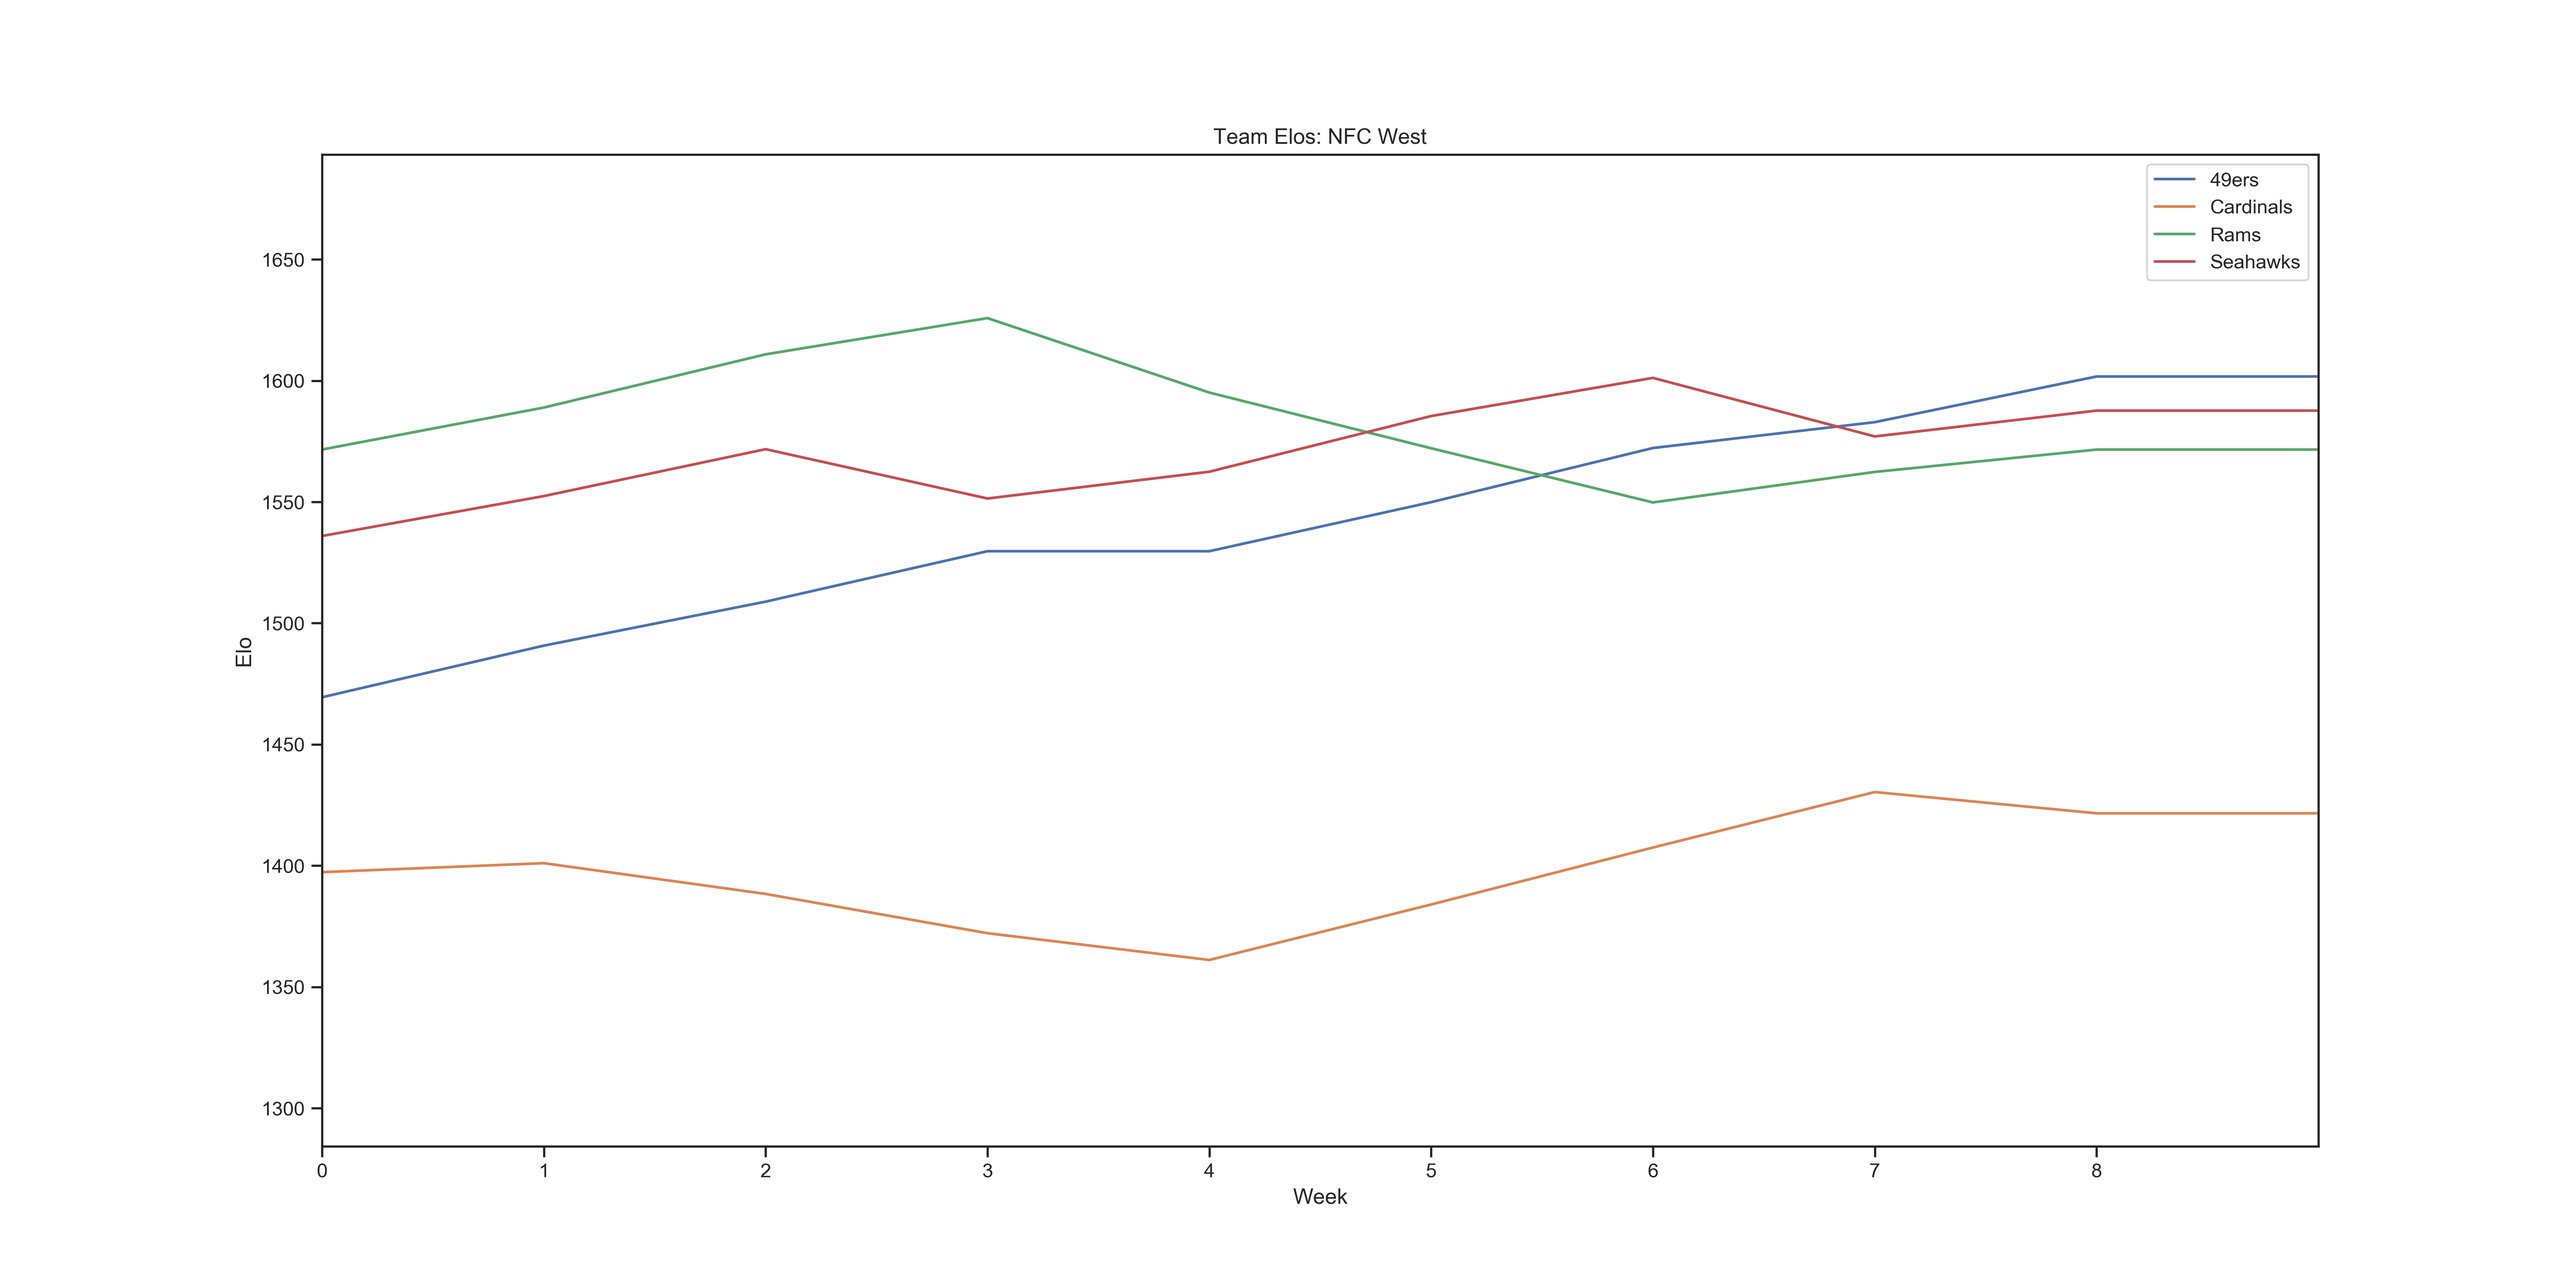
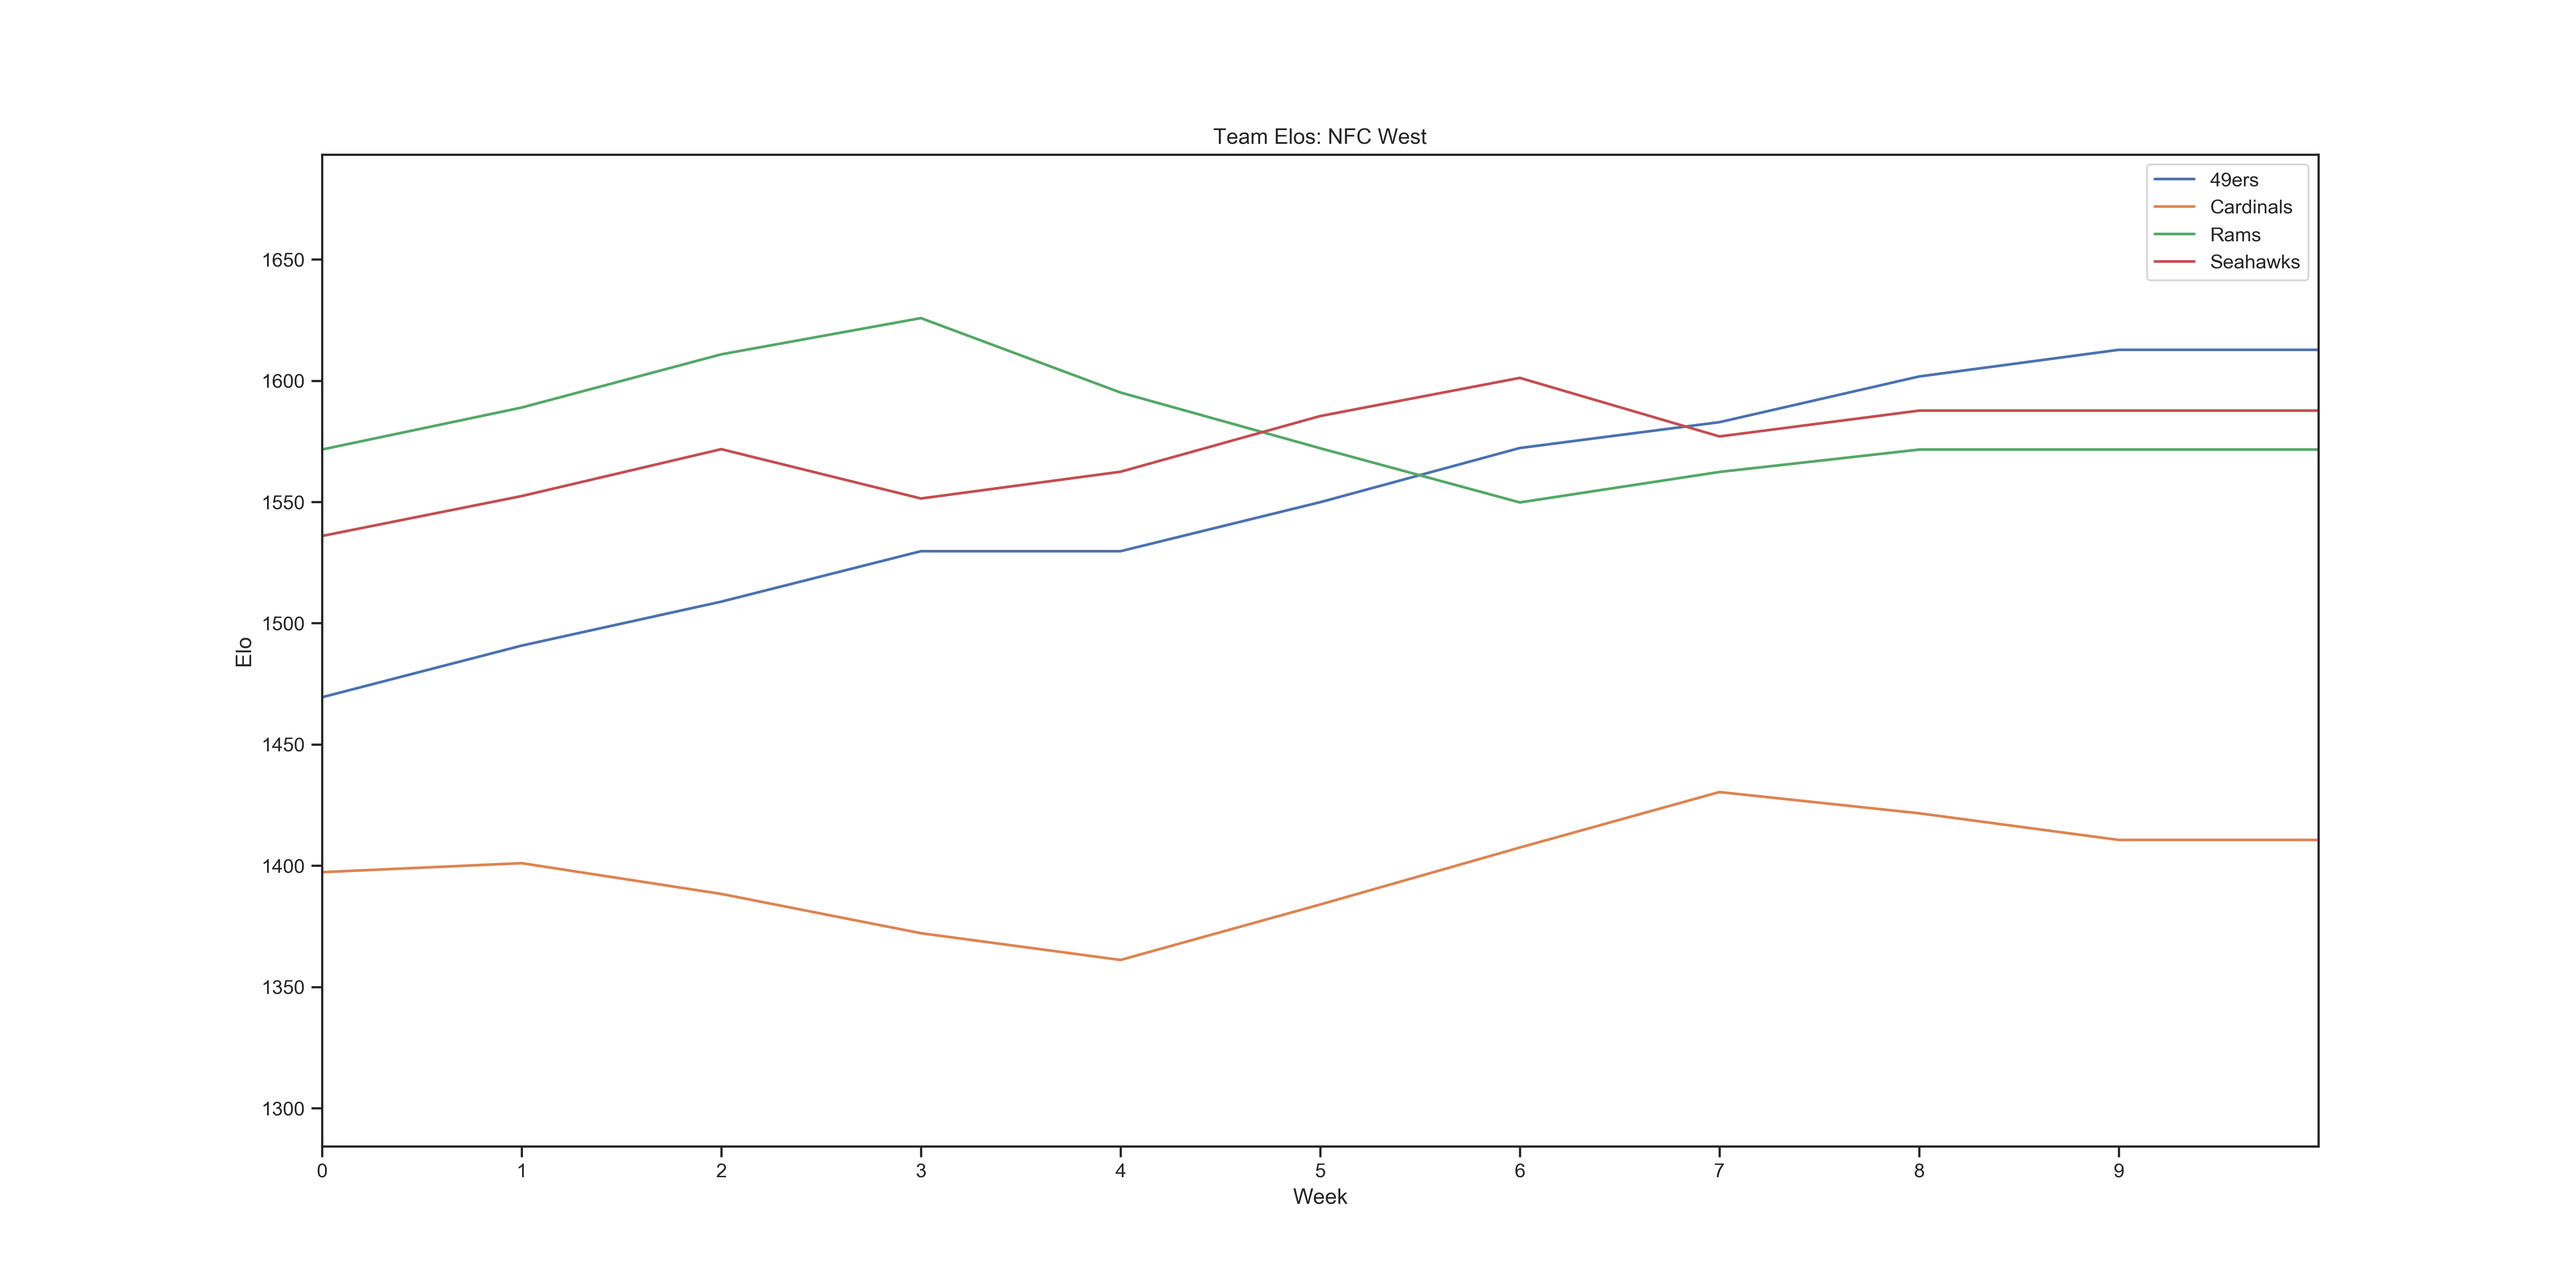
Added week 9 Thursday game

diff --git a/NFLSeason2019.py b/NFLSeason2019.py
@@ -891,28 +891,28 @@ def week_9(teams, week_end_date, week=9):
         Predictor.get_week_probabilities(teams, Playoffs.get_week9_schedule(week_end_date))
 
     # Results
-    # teams = set_game_outcome(teams,
-    #                          week=week,
-    #                          spread=0,
-    #                          home_name='Cardinals',
-    #                          home_score=0,
-    #                          home_touchdowns=0,
-    #                          home_net_pass_yards=0,
-    #                          home_pass_completions=0,
-    #                          home_pass_attempts=0,
-    #                          home_pass_tds=0,
-    #                          home_interceptions_thrown=0,
-    #                          home_total_yards=0,
-    #                          away_name='49ers',
-    #                          away_score=0,
-    #                          away_touchdowns=0,
-    #                          away_net_pass_yards=0,
-    #                          away_pass_completions=0,
-    #                          away_pass_attempts=0,
-    #                          away_pass_tds=0,
-    #                          away_interceptions_thrown=0,
-    #                          away_total_yards=0)
-    #
+    teams = set_game_outcome(teams,
+                             week=week,
+                             spread=10,
+                             home_name='Cardinals',
+                             home_score=25,
+                             home_touchdowns=3,
+                             home_net_pass_yards=204,
+                             home_pass_completions=17,
+                             home_pass_attempts=24,
+                             home_pass_tds=2,
+                             home_interceptions_thrown=0,
+                             home_total_yards=357,
+                             away_name='49ers',
+                             away_score=28,
+                             away_touchdowns=4,
+                             away_net_pass_yards=310,
+                             away_pass_completions=28,
+                             away_pass_attempts=37,
+                             away_pass_tds=4,
+                             away_interceptions_thrown=0,
+                             away_total_yards=411)
+
     # teams = set_game_outcome(teams, week, 0,
     #                          'Jaguars', 0, 0, 0, 0, 0, 0, 0, 0,
     #                          'Texans', 0, 0, 0, 0, 0, 0, 0, 0)
